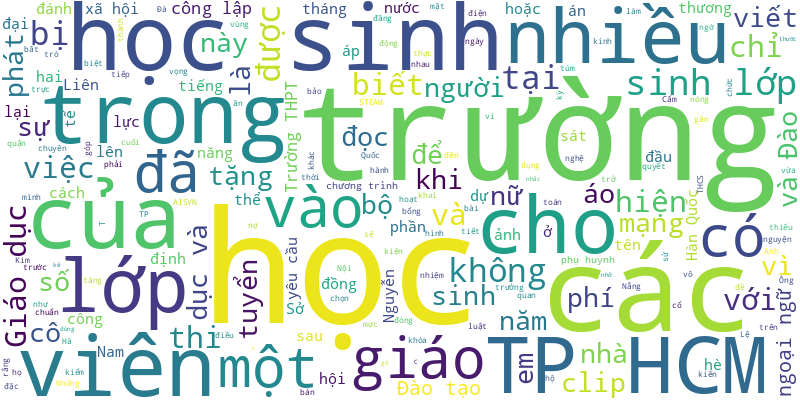
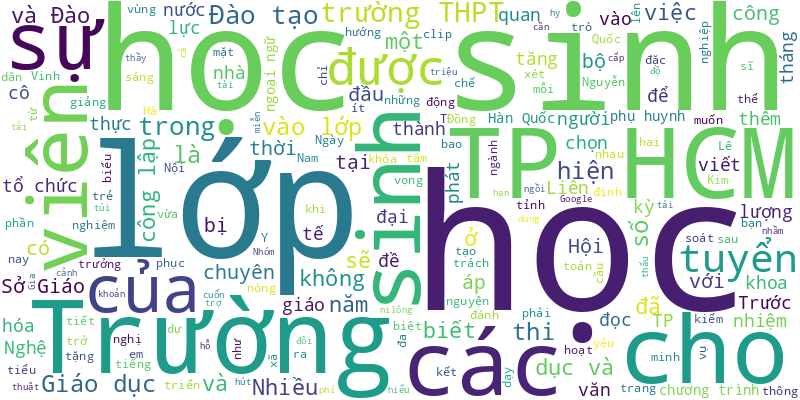
🍀 = 90%

diff --git a/README.md b/README.md
@@ -1,6 +1,18 @@
 # Tuoi Tre RSS 
 
 ## Giáo dục 
+- Nhóm sinh viên Trường Khoa học liên ngành và Nghệ thuật tái chế 18 bộ trang phục thời trang cuốn hút từ túi nilông, bao tải...
+- Sở Giáo dục và Đào tạo TP.HCM đề nghị Google cấp 5 triệu tài khoản miễn phí cho học sinh, giáo viên để hỗ trợ việc dạy và học.
+- Sự quan tâm, thấu hiểu, bao dung, độ lượng và đôi khi cần cả sự hy sinh của người thầy sẽ hạn chế được cảnh học sinh ngồi nhầm lớp.
+- Năm học 2024 - 2025, các trường THPT ở tỉnh Gia Lai sẽ thực hiện xét tuyển vào lớp 10, trừ Trường THPT chuyên Hùng Vương vẫn tổ chức thi tuyển.
+- 535 học sinh lớp 11 Trường THPT Lê Quý Đôn, TP.HCM đã thực hiện giai đoạn 2 của chương trình trải nghiệm hướng nghiệp do nhà trường tổ chức sáng 13-4.
+- Ngày 13-4, vòng chung kết Hội thi Đầu bếp trẻ diễn ra tại công viên văn hóa Đầm Sen. Đây là hoạt động thường niên do Sở Giáo dục và Đào tạo TP.HCM tổ chức.
+- Trước số lượng học sinh lớp 9 tăng đột biến, tạo áp lực lớn tuyển sinh vào lớp 10 cho học sinh và phụ huynh, người dân mong muốn TP Vinh có thêm một trường THPT công lập.
+- Năm 2024, Trường đại học Y Dược TP.HCM bổ sung thêm phương thức tuyển sinh mới xét kết quả kỳ thi SAT, áp dụng riêng cho 2 ngành đào tạo bác sĩ là y khoa và răng - hàm - mặt.
+- Chuyển đổi số trong giảng dạy được cho là bước đi tất yếu nếu TP.HCM muốn tạo ra những công dân số phục vụ sự phát triển và xây dựng thành phố thông minh. Nhưng công tác này vấp phải không ít sự phản đối của phụ huynh.
+- Phòng Giáo dục - Đào tạo huyện Minh Hóa cho biết sẽ rà soát và kiểm điểm trách nhiệm của giáo viên tiểu học để tình trạng học sinh lớp 6 không biết đọc thông viết thạo.
+- Sáng học một lớp, chiều học nhiều lớp, mỗi học sinh 1 thời khóa biểu… Đó là lớp học 'chạy' ở Trường THPT chuyên Lê Hồng Phong TP.HCM.
+- Hiện nay, việc lựa chọn môi trường học tập đa văn hóa, chất lượng quốc tế đang được các bạn trẻ quan tâm.
 - Trong tiết học toán, sau khi nhắc nhở học sinh không được, cô giáo C.T.L.T. đã dùng thước kẻ gõ vào đầu em khiến em bị sưng phần mềm vùng đầu và vùng mắt hai bên.
 - Ông Nguyễn Giang Nam - hiệu trưởng Trường tiểu học Kim Liên - bị đề nghị cách toàn bộ chức vụ trong Đảng.
 - Phó tổng lãnh sự Hàn Quốc tại TP.HCM đánh giá việc doanh nghiệp Hàn Quốc trao tặng học bổng là hoạt động thể hiện trách nhiệm xã hội, đóng góp cho sự phát triển kinh tế của Việt Nam và Hàn Quốc.
@@ -19,50 +31,38 @@
 - Đa số các trường THPT công lập ở TP.HCM đều tăng chỉ tiêu tuyển sinh lớp 10 năm học 2024-2025.
 - Liên quan clip nữ sinh bị túm cổ áo, vuốt tóc, áp sát mặt, UBND quận Cẩm Lệ (Đà Nẵng) cho biết trong quá trình xử lý học sinh đánh nhau, giáo viên đã thiếu kiểm soát nên có hành vi chưa chuẩn mực.
 - Thủ tướng Chính phủ vừa ký quyết định thành lập Hội đồng giáo sư nhà nước nhiệm kỳ 2024 - 2029, với chủ tịch là Bộ trưởng Bộ Giáo dục và Đào tạo Nguyễn Kim Sơn.
-- 'Tôi suýt khóc khi thấy hình ảnh bữa ăn bán trú buổi trưa của con chỉ lèo tèo vài món ăn', một phụ huynh phản ảnh.
-- Hàng loạt sản phẩm của các dự án STEAM do học sinh Trường THPT Bùi Thị Xuân, TP.HCM thực hiện đã được rao bán tại Ngày hội STEAM của trường.
-- Nữ sinh lớp 9 bị đánh hội đồng và cởi áo trong clip phát tán trên mạng xã hội đã phải nhập viện vì chấn thương và hoảng loạn tinh thần.
-- Cô giáo phát hiện trong bài kiểm tra của một học sinh lớp 6 có dòng chữ ‘chép nhanh để về'. Hỏi ra mới biết em này không đọc thông viết thạo, chỉ biết viết họ tên mình.
-- Nhiều sinh viên cho rằng những trường đăng công khai lên mạng tên sinh viên nợ học phí cần sớm chấm dứt việc này và thay đổi bằng cách khác để tránh làm tổn thương người học.
-- Sau khi xem xét nhiều yếu tố, nhà trường đã rút quyết định đuổi học hai học sinh hút thuốc lá điện tử vì các em âm tính với ma túy.
-- Kết quả khảo sát năng lực tiếng Anh của học sinh lớp 9, 11 tại TP.HCM gây bất ngờ vì kỹ năng nghe, đọc của phần lớn học sinh lớp 9, 11 còn rất hạn chế.
-- Gần hè, các quảng cáo chương trình hè, khóa học hè cũng tràn ngập. Có nơi hứa tài trợ 100% chi phí ăn uống và đi lại cho học viên, hoặc tặng học bổng, hoặc tặng bảo hiểm...
-- Một số nam sinh viên bị kỷ luật vì sử dụng điện thoại quay lén nhà vệ sinh nữ trong trường, thi hộ và nhờ người thi hộ, sử dụng chứng chỉ ngoại ngữ giả.
-- Sáng 11-4, nhiều đoạn clip ghi lại hình ảnh một người đàn ông mặc áo xanh, có thể là cán bộ, giáo viên tại Trường THCS Nguyễn Thiện Thuật, quận Cẩm Lệ, Đà Nẵng có hành vi không chuẩn mực khi túm cổ áo, áp sát mặt học sinh nữ.
-- Liên quan việc các trường đại học đăng công khai trên mạng danh sách sinh viên nợ học phí, nhiều ý kiến cho rằng cách làm này của trường là vô cảm, thiếu tôn trọng và thậm chí phạm luật.
-- Sở Giáo dục và Đào tạo TP.HCM yêu cầu Trường quốc tế AISVN xây dựng phương án dạy học trực tuyến trong điều kiện kinh phí do phụ huynh đóng góp không đủ để tổ chức hoạt động giáo dục trực tiếp đến cuối năm học này.
 ![Edu](Edu.png)
 ## Thời Sự 
-- Nhiều người sẵn sàng bỏ ra hàng chục triệu đồng để "cược" vào những viên đá tù mù với niềm tin "nổ" ra các loại đá quý.
-- Tin tức đáng chú ý: Sạt lở hầm đèo Cả giữa thời tiết khô ráo; Xe đi đường không được tùy ý bấm còi; Khởi tố, bắt tạm giam đối tượng giả danh công an lừa tình, lừa tiền nhiều phụ nữ...
-- Nắng nóng vẫn là thời tiết chủ đạo trên cả nước trong hôm nay, trời oi bức, khô nóng.
-- Tại phiên tòa phúc thẩm ngày 12-4, cả ba cựu cán bộ công an ở Thái Bình được giảm án liên quan hành vi “dùng nhục hình” khiến bị can chết khi đang tạm giữ.
-- Liên quan vụ tàu 4.600 tấn đứt neo, kẹt dưới gầm cầu Đồng Nai, Khu quản lý đường bộ IV kiến nghị tạm giữ phương tiện, xác minh nguyên nhân để sớm khắc phục thiệt hại.
-- Cơ quan điều tra đề nghị ai là nạn nhân của kẻ giả danh công an '2 gạch 2 sao' liên hệ số điện thoại 02923.858.888 hoặc 0979.233.324 để được giải quyết.
-- Sau khi cấm xe tải nặng trên cao tốc Cam Lộ - La Sơn, xe container trên quốc lộ 1 tăng trên 80%. Cùng với đó, mỗi lượt xe đầu kéo phải chi phí thêm hơn 1,5 triệu đồng do qua 3 trạm BOT.
-- Vị nguyên lãnh đạo Bộ Giao thông vận tải cho rằng nếu doanh nghiệp Việt tham gia làm được đường ray đường sắt thì quá tốt.
-- Nơi “chảo lửa” Điện Biên, tiết trời những ngày này oi bức. Mặc cái nắng cháy da, đoàn viên thanh niên và bà con nhân dân Điện Biên đang hăng hái tập luyện trên sân vận động Điện Biên cho dịp lễ diễu binh, diễu hành kỷ niệm 70 năm Chiến thắng Điện Biên Phủ (7-5-1954 - 7-5-2024).
-- Chủ khách sạn nổi tiếng ở Phú Quốc bể hụi trăm tỉ đồng làm nhiều hụi viên điêu đứng. Công an tỉnh Kiên Giang đã vào cuộc điều tra.
-- Đây là thông tin ông Trần Đăng Khoa, phó vụ trưởng Vụ Sức khỏe bà mẹ - trẻ em (Bộ Y tế), cung cấp sau khi nhận được báo cáo của Bệnh viện đa khoa quốc tế Thu Cúc về vụ việc người nhà tố bệnh viện tắc trách khiến thai nhi tử vong trong bụng mẹ.
-- Dù đã phê duyệt quyết toán 17 dự án trị giá hơn 1.300 tỉ đồng từ năm 2023 nhưng đến nay Sở Nông nghiệp và Phát triển nông thôn tỉnh Cà Mau vẫn còn 16 dự án chưa được tất toán.
-- Bộ Công an phối hợp với tỉnh Trà Vinh và các nhà tài trợ tổ chức lễ bàn giao nhà mẫu và kinh phí hỗ trợ xây dựng 1.290 căn nhà tặng người dân có hoàn cảnh đặc biệt khó khăn trên địa bàn tỉnh.
-- Chiều 12-4, Chủ tịch UBND TP.HCM Phan Văn Mãi kiểm tra tiến độ thi công hai dự án trọng điểm xây dựng nút giao An Phú và đường Lương Định Của, TP Thủ Đức.
-- Giám đốc Sở Công Thương được UBND tỉnh Quảng Nam điều động, bổ nhiệm giữ chức giám đốc Sở Ngoại vụ tỉnh này.
-- Ngành du lịch Đồ Sơn, Hải Phòng tung thêm nhiều sản phẩm mới nhằm đạt mục tiêu đón 3,8 triệu lượt khách trong năm 2024.
-- Ông Nguyễn Giang Nam - hiệu trưởng Trường tiểu học Kim Liên - bị đề nghị cách toàn bộ chức vụ trong Đảng.
-- Vụ sạt lở hầm Bãi Gió khiến tuyến đường sắt Bắc - Nam qua Khánh Hòa bị ách tắc từ chiều 12-4. Ngành đường sắt đang lên phương án chuyển tải hành khách qua khu vực này.
-- UBND huyện Đăk Hà báo cáo không thấy phá rừng nhưng lãnh đạo Huyện ủy kiểm tra thực tế, xác định hơn 2ha rừng bị phá.
-- Nam thanh niên sinh năm 2001 cho hay anh bị đội bạn và trọng tài đạp và đấm liên tiếp vào mặt sau một tình huống tranh cãi trên sân bóng đá phủi tại Hà Nội, tối 11-4.
-- Thủ tướng Phạm Minh Chính đồng ý với phương án nghỉ 5 ngày liên tục dịp lễ 30-4 và 1-5, sau tờ trình của Bộ Lao động - Thương binh và Xã hội.
-- Bên trên hạn hán gay gắt, bên dưới mặn xâm nhập khốc liệt đã làm nhiều cánh đồng lúa ở Sóc Trăng thiệt hại trắng hoặc bị giảm năng suất.
-- Ngày 12-4, Công an TP Quy Nhơn (Bình Định) cho biết đơn vị vừa phối hợp với các bên liên quan trả tài sản bị đánh rơi cho người nước ngoài khi đi du lịch tại thành phố này.
-- Liên danh gói thầu XL8 thuộc dự án vành đai 3 TP.HCM đã đệ trình chủ đầu tư chấp thuận nhà thầu phụ mới để đảm bảo tiến độ thi công.
-- Thực hiện nghị quyết của HĐND TP.HCM, phường Bình Hưng Hòa A (quận Bình Tân) sắp xếp 27 khu phố, 372 tổ dân phố thành 52 khu phố.
-- Từ những năm 2003, để hiện thực hóa ý tưởng làm sống lại dòng sông cổ Cổ Cò nối Đà Nẵng vào Hội An, tỉnh Quảng Nam và Đà Nẵng đã bắt tay nhau thực hiện các dự án nạo vét. Nhưng tới 2024 này, dòng sông cổ vẫn là vệt đất hoang.
-- Hai tỉnh Tiền Giang, Long An được nhận định chịu ảnh hưởng của xâm nhập mặn nặng nhất trong năm nay.
-- Tỉnh Quảng Trị đã ký kết hợp đồng BOT với liên danh nhà đầu tư sân bay Quảng Trị và dự kiến khởi công trong tháng 6 để kịp đưa vào khai thác cuối năm 2026.
-- Nhiều người dân ở TP.HCM phản ánh tình trạng xe taxi, xe công nghệ... đậu xe tràn lan trên đường, hẻm nhỏ cả ngày lẫn đêm gây cản trở giao thông.
-- UBND tỉnh Tiền Giang tổ chức lễ thi công xây cầu Tân Phong qua cù lao Tân Phong, xóa thế cô lập của huyện Cai Lậy, với tổng vốn đầu tư gần 240 tỉ đồng.
+- Nhiều vùng nông nghiệp tại Tây Nguyên và Nam Trung Bộ đang đứng trước nguy cơ chết khát vì khô hạn, thiếu nước tưới.
+- Lẽ ra các cơ quan chức năng có kế hoạch từ sớm để các cơ quan, người dân, doanh nghiệp chủ động trong hoạt động, sản xuất, kinh doanh.
+- Sự cố sạt lở nghiêm trọng tại hầm Bãi Gió đã khiến tuyến đường sắt Bắc - Nam tê liệt từ chiều 12-4 đến nay, hàng ngàn hành khách phải chịu cảnh 'tăng bo'. Cán bộ, công nhân đường sắt nỗ lực suốt ngày đêm để khắc phục những phát sinh của sự cố này.
+- Người phụ nữ dùng gạch đập liên tiếp vào chiếc ô tô có một người đàn ông và một phụ nữ bên trong. Công an đã mời ba người có liên quan trong vụ việc về trụ sở để làm rõ.
+- Một số tin tức đáng chú ý: Tiền gửi giảm, ngân hàng rục rịch tăng lãi suất; Thêm 2 di sản văn hóa phi vật thể quốc gia; 3 bệnh viện cửa ngõ mới ở TP.HCM sẽ hoạt động cuối năm nay...
+- Hôm nay nắng nóng mở rộng ở nhiều nơi trên cả nước, thời tiết oi bức, nhiệt độ tăng cao.
+- Hai chị em đi xe đạp điện qua đường sắt bị xe chuyên dụng của ngành đâm trúng, khiến cả hai tử vong.
+- Đoàn khách du lịch là cán bộ, nhân viên Cục Quản lý thị trường TP.HCM bay ra sân bay Pleiku (tỉnh Gia Lai), rồi thuê xe khách đi thị trấn Măng Đen, huyện Kon Plông, tỉnh Kon Tum.
+- Chương trình nghệ thuật đặc biệt "Điểm tựa nơi đầu sóng" kỷ niệm 10 năm ngày ra mắt lực lượng kiểm ngư Việt Nam.
+- Xe khách chở 23 người trên quốc lộ 24 qua huyện Kon Rẫy, Kon Tum va chạm với xe đầu kéo chạy ngược chiều. Một người chết, nhiều người bị thương.
+- Thủ tướng Phạm Minh Chính đề nghị tỉnh Hòa Bình tạo mọi điều kiện để các nhà đầu tư như Tập đoàn Meiko Electronics (Nhật Bản) sản xuất, phát triển nhà máy bảng mạch in điện tử, tạo việc làm, sinh kế cho người dân.
+- Hàng loạt mặt bằng để xây dựng công trình giao thông ở TP Thủ Đức đang được đẩy nhanh việc thu hồi, bàn giao cho khởi công.
+- Hơn 140ha đất có rừng nhưng chưa có chòi quan sát lửa, chỉ có 2 máy bơm, trong đó một máy hư đang sửa, một máy hoạt động không hiệu quả nên không dập tắt đám cháy rừng kịp thời, dẫn đến cháy lan.
+- Phóng viên Tuổi Trẻ Online ghi nhận hình ảnh trực tiếp từ hiện trường sự cố sạt lở hầm Bãi Gió đang 'ngắt mạch' đường sắt Bắc - Nam.
+- Lãnh đạo TP.HCM giao các sở ngành đẩy nhanh tiến độ, đảm bảo khởi công dự án cầu đường Nguyễn Khoái và vành đai 2 trong tháng 12-2024.
+- 169 sản phẩm, dịch vụ công nghệ thông tin tiêu biểu, tạo ra doanh thu hơn 3 tỉ USD, đã được trao giải thưởng Sao Khuê năm 2024.
+- Bộ tư lệnh Vùng cảnh sát biển 4 đã dùng tàu chở hơn 350.000 lít nước ngọt cấp cho người dân đảo Hòn Chuối, tỉnh Cà Mau.
+- Hàng trăm chiếc xe máy quá hạn bị 'bỏ quên' ở sân bay, bến xe tại TP.HCM vẫn chưa có dấu hiệu giảm đi. Nhiều chiếc xe đã hoen gỉ, mục nát…
+- Việc thu hút người tài cho các lĩnh vực văn hóa, nghệ thuật, thể thao nhằm phục vụ trình diễn trong các sự kiện quốc gia, quốc tế, hướng tới giành thành tích cao tại các đại hội thể thao thế giới.
+- Mới đây Sở Tài nguyên - Môi trường TP.HCM trình UBND TP.HCM xem xét thu hồi khu đất 201 Điện Biên Phủ (quận 3) của Công ty cổ phần mắt kính Sài Gòn.
+- Thi thể em P.G.B. - một trong hai anh em sinh đôi mất tích khi tắm biển Ngũ Hành Sơn, Đà Nẵng - vừa được tìm thấy chiều 13-4.
+- Lãnh đạo Huyện ủy Đăk Hà, Kon Tum cho hay đang chờ báo cáo của UBND huyện về vụ không phát hiện phá rừng nhưng thực tế rừng bị đốt phá.
+- Trước số lượng học sinh lớp 9 tăng đột biến, tạo áp lực lớn tuyển sinh vào lớp 10 cho học sinh và phụ huynh, người dân mong muốn TP Vinh có thêm một trường THPT công lập.
+- Quyền chủ tịch UBND tỉnh Đồng Nai Võ Tấn Đức nhấn mạnh phải tập trung hoàn thành giải phóng mặt bằng cao tốc Biên Hòa - Vũng Tàu trước ngày 30-6, không đùn đẩy, đổ qua đổ lại.
+- Cao tốc TP.HCM - Mộc Bài dài khoảng 51km được đặt mục tiêu khởi công vào tháng 4-2025.
+- Nhiều địa phương đã công bố kế hoạch sắp xếp đơn vị hành chính cấp xã, phường. Dự kiến tên gọi mới của các xã, phường sau khi sáp nhập được quan tâm.
+- Sau gần một năm đưa vào khai thác tạm, đến nay cao tốc Vĩnh Hảo - Phan Thiết qua tỉnh Bình Thuận vẫn chưa hoàn thiện để bàn giao đưa vào khai thác chính thức.
+- Trong văn bản gửi Chi cục Thủy lợi TP.HCM, vị này nói rất xót xa, dằn vặt trước nạn hạn hán của một số tỉnh phía Nam nên đã giới thiệu người "lập đàn cầu mưa nhưng chưa được kiểm chứng". Còn chuyên gia cho rằng "hoàn toàn không có căn cứ".
+- Sạt lở, sụt lún lộ giao thông đang bủa vây vùng đệm U Minh Thượng, Kiên Giang. Các con kênh ở vùng đệm trên cũng kiệt nước gần như trơ đáy nên người dân rối bời mót nước ngọt bơm vào vuông nuôi tôm càng xanh.
+- Sáng 13-4, đàn cá heo khoảng 150 con bất ngờ xuất hiện, bơi tung tăng và được người dân ghi lại ở vùng biển danh thắng Mũi Điện (thị xã Đông Hòa, tỉnh Phú Yên).
 ![New](News.png)
 ## Nhịp sống số 
 - Ngoài làm mờ tin nhắn có ảnh khỏa thân, Meta cũng đang phát triển công nghệ xác định tài khoản lừa đảo sextort (tin tặc lừa đang giữ ảnh nóng của người dùng).
